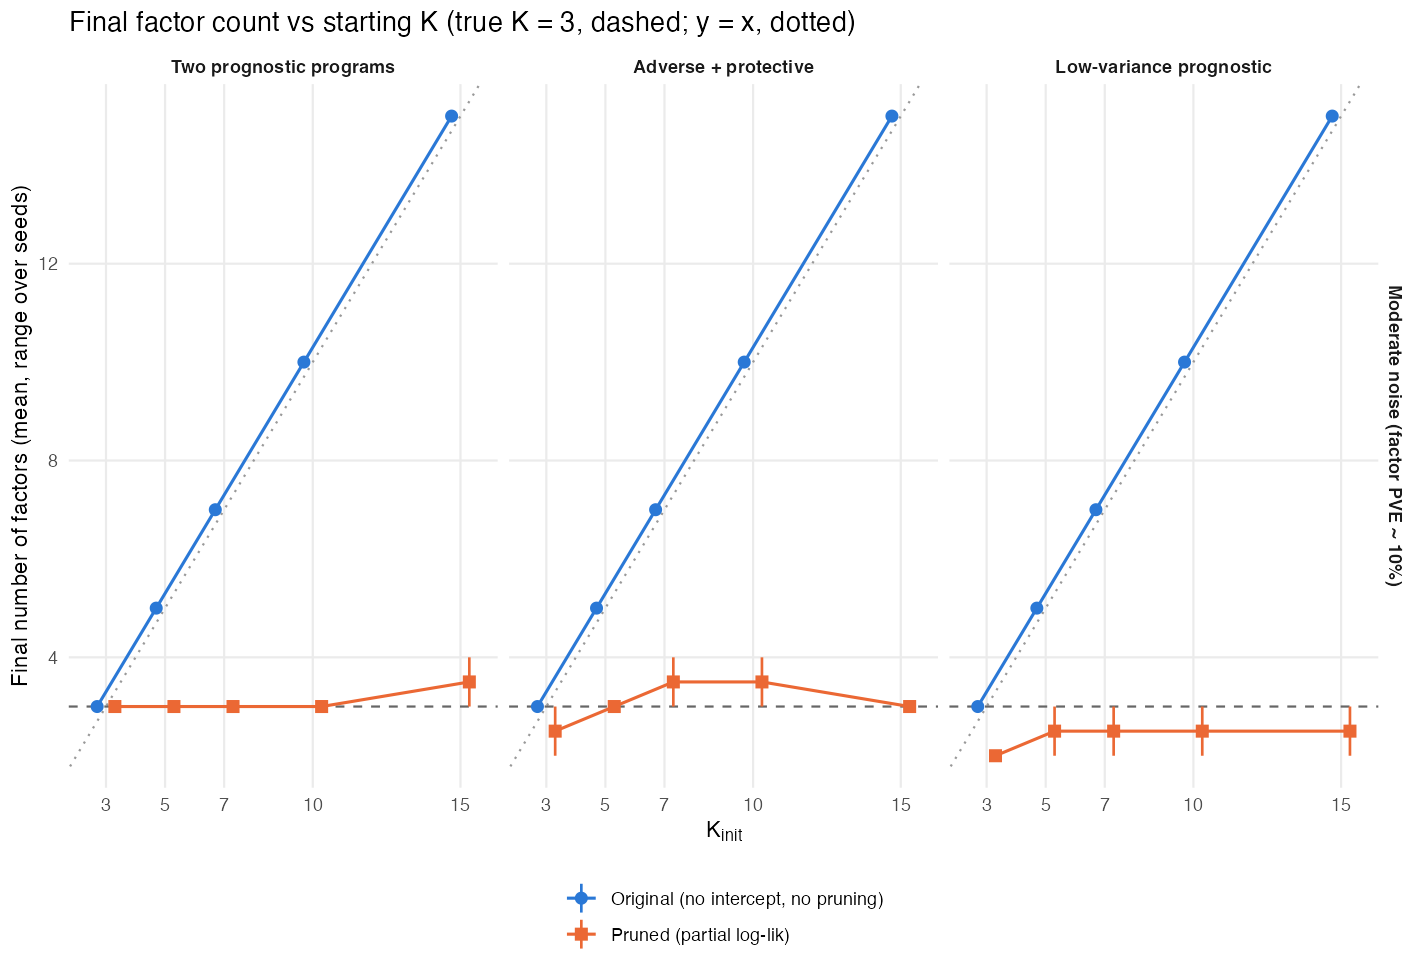
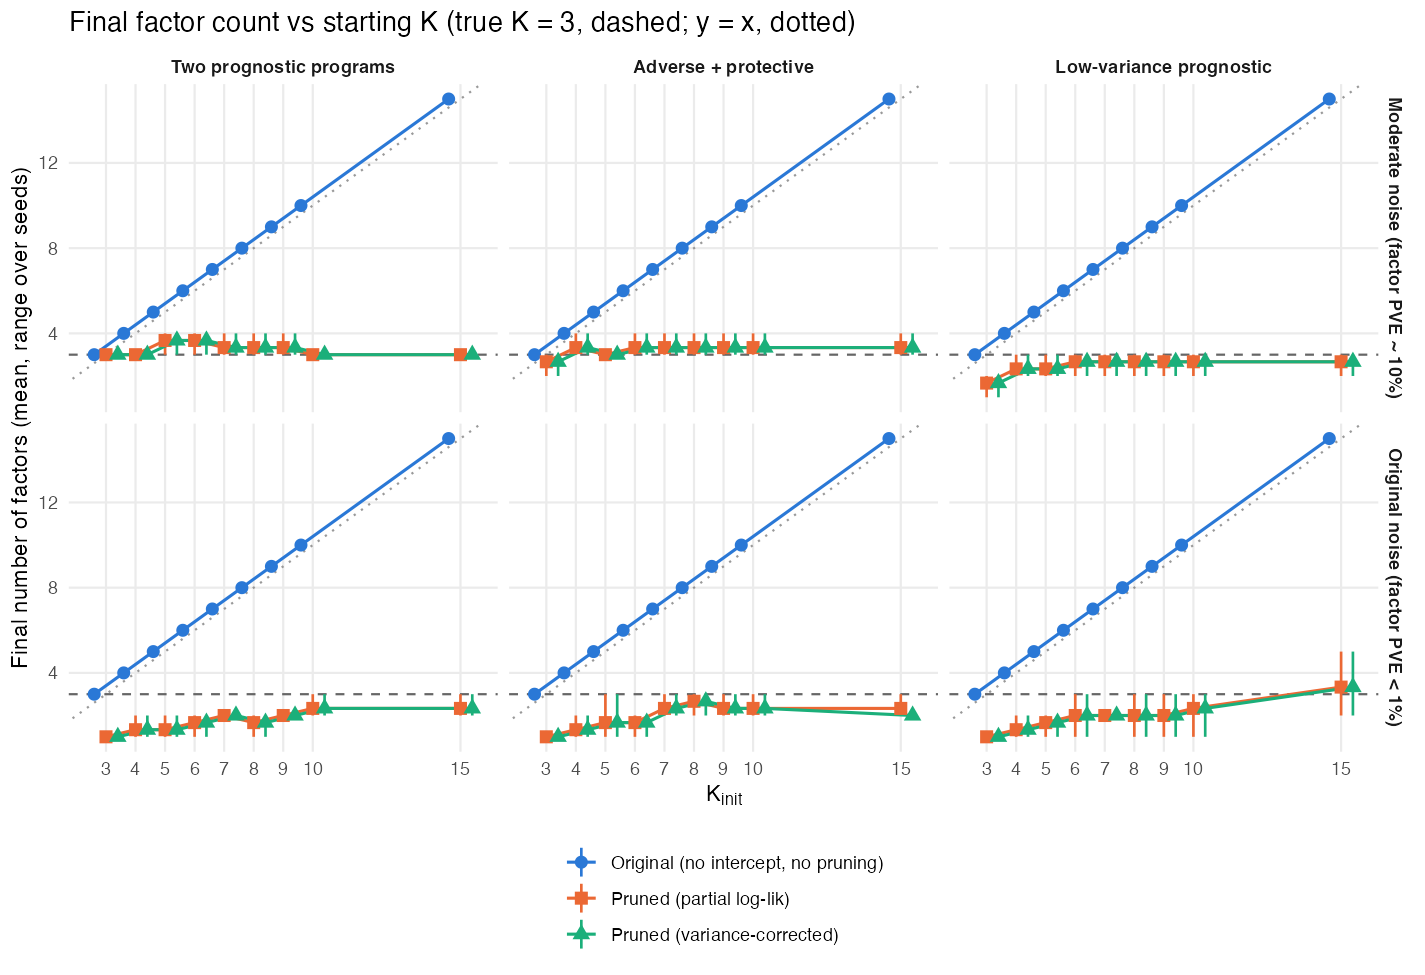
Re-render progress book with full sweep

diff --git a/docs/progress_book/_book/chapters/2026-10-02.html b/docs/progress_book/_book/chapters/2026-10-02.html
@@ -223,7 +223,7 @@ window.Quarto = {
   <ul class="collapse">
   <li><a href="#why-spare-factors-survived" id="toc-why-spare-factors-survived" class="nav-link" data-scroll-target="#why-spare-factors-survived"><span class="header-section-number">10.2.1</span> Why spare factors survived</a></li>
   <li><a href="#the-parsimony-framework" id="toc-the-parsimony-framework" class="nav-link" data-scroll-target="#the-parsimony-framework"><span class="header-section-number">10.2.2</span> The parsimony framework</a></li>
-  <li><a href="#simulation-sweep-preliminary-2-seeds" id="toc-simulation-sweep-preliminary-2-seeds" class="nav-link" data-scroll-target="#simulation-sweep-preliminary-2-seeds"><span class="header-section-number">10.2.3</span> Simulation sweep (preliminary: 2 seeds)</a></li>
+  <li><a href="#simulation-sweep" id="toc-simulation-sweep" class="nav-link" data-scroll-target="#simulation-sweep"><span class="header-section-number">10.2.3</span> Simulation sweep</a></li>
   </ul></li>
   <li><a href="#real-data-matched-tcga-and-icgc-expression-methylation" id="toc-real-data-matched-tcga-and-icgc-expression-methylation" class="nav-link" data-scroll-target="#real-data-matched-tcga-and-icgc-expression-methylation"><span class="header-section-number">10.3</span> §3 — Real data: matched TCGA and ICGC expression + methylation</a></li>
   <li><a href="#first-real-data-fits-tcga-icgc" id="toc-first-real-data-fits-tcga-icgc" class="nav-link" data-scroll-target="#first-real-data-fits-tcga-icgc"><span class="header-section-number">10.4</span> §4 — First real-data fits: TCGA → ICGC</a>
@@ -278,11 +278,12 @@ window.Quarto = {
 </div>
 <p><strong>Progress since 9/18</strong></p>
 <ol type="1">
-<li><strong>Choosing K works in simulation.</strong>
+<li><strong>Choosing K works in simulation.</strong> Full sweep: 486 fits; 3 scenarios × 2 noise levels × K_init = 3–15 × 3 seeds.
 <ul>
 <li>Spare factors survived for two reasons: unbounded per-feature precisions and a missing intercept.</li>
-<li>With the fix, the final number of factors stays near the true K = 3 for every starting value from 3 to 15 in the two scenarios where each program carries variance. The original fit kept every starting factor.</li>
-<li>The prognostic programs are found survival-active with the correct sign in 75–100% of runs. (§2)</li>
+<li>With the fix, the final number of factors stays at 3.0–3.7 for every K_init ≥ 4 at moderate noise. The original fit kept every starting factor.</li>
+<li>The pruned fit recovers essentially all true factors, converges in every run (against 7–37%), and has slightly higher held-out C.</li>
+<li>At high noise its held-out C is far better: 0.79–0.81 against about 0.70. (§2)</li>
 </ul></li>
 <li><strong>First real-data results.</strong> Trained on TCGA (144 patients); validated on ICGC primary PDAC (50 donors, 30 deaths).
 <ul>
@@ -290,7 +291,7 @@ window.Quarto = {
 <li>Our recommended single-modality model scores 0.685 on the same donors. It was trained on TCGA + CPTAC.</li>
 <li>Weaker comparators reach 0.42–0.53.</li>
 <li><strong>Methylation adds +0.01, within the noise.</strong></li>
-<li><strong>The result depends on the starting rank.</strong> Across K_init = 3, 4, 5, 7 and 10, C is 0.557, 0.574, 0.500, 0.685 and 0.650. At K_init = 5 no factor is survival-active. (§4)</li>
+<li><strong>The result depends on the starting rank.</strong> Across K_init = 3, 4, 5, 7, 10 and 15, C is 0.557, 0.574, 0.500, 0.685, 0.650 and 0.547. At K_init = 5 no factor is survival-active; at 15, eleven are, and C falls. (§4)</li>
 </ul></li>
 <li><strong>The selected programs are recognizable PDAC biology.</strong>
 <ul>
@@ -308,7 +309,7 @@ window.Quarto = {
 <p><strong>Open problems and discussion points</strong></p>
 <ul>
 <li><strong>Survival barely influences which factors are kept.</strong> On real data it changes the evidence for any factor by less than 3 nats, against 10⁴–10⁵ for reconstruction. This may also be why a low-variance prognostic program is missed in simulation. It is the multimodal form of the single-modality α_F question. How should survival be made to affect factor retention? (§4, §7)</li>
-<li><strong>Pruning removed no factors on real data</strong> at any starting rank tried (3, 4, 5, 7, 10), so the starting rank fixes the final rank and the result varies with it. The evidence supports many molecular factors. Choosing the rank on real data is the most important open problem. (§4)</li>
+<li><strong>Pruning removed no factors on real data</strong> at any starting rank tried (3–15), so the starting rank fixes the final rank and the result varies with it. The evidence supports many molecular factors. Choosing the rank on real data is the most important open problem. (§4)</li>
 <li><strong>What methylation contributes.</strong> Most factors use one modality. Should CpGs be screened relative to genes, for example promoter CpGs of the selected genes, instead of the 10k most variable? (§3, §4)</li>
 </ul>
 <p>Terms used below:</p>
@@ -425,91 +426,206 @@ Y_m = \mathbf 1\mu_m^\top + L F_m^\top + E_m,\qquad E_{mij}\sim N(0,\tau_{mj}^{-
 <li>An empirical-Bayes Gamma prior on <span class="math inline">\(\tau\)</span> learns a heavy tail, so <span class="math inline">\(\tau\)</span> still reached about <span class="math inline">\(10^{17}\)</span>.</li>
 </ul>
 </section>
-<section id="simulation-sweep-preliminary-2-seeds" class="level3" data-number="10.2.3">
-<h3 data-number="10.2.3" class="anchored" data-anchor-id="simulation-sweep-preliminary-2-seeds"><span class="header-section-number">10.2.3</span> Simulation sweep (preliminary: 2 seeds)</h3>
+<section id="simulation-sweep" class="level3" data-number="10.2.3">
+<h3 data-number="10.2.3" class="anchored" data-anchor-id="simulation-sweep"><span class="header-section-number">10.2.3</span> Simulation sweep</h3>
 <p><strong>Design.</strong></p>
 <ul>
-<li>Data: true <span class="math inline">\(K=3\)</span>, <span class="math inline">\(n=120\)</span>, 50 + 50 features, moderate noise (each true factor explains about 10% of variance).</li>
-<li>Starting ranks: <span class="math inline">\(K_{\mathrm{init}}=3,5,7,10,15\)</span>.</li>
-<li>Scenarios: three. Seeds: two per setting.</li>
-<li>Fits: 60, original vs pruned, on identical data. No fit errored.</li>
-<li>The full sweep (both noise levels, <span class="math inline">\(K_{\mathrm{init}}=3,\dots,10,15\)</span>, three seeds) is still running.</li>
+<li>Data: true <span class="math inline">\(K=3\)</span>, <span class="math inline">\(n=120\)</span>, 50 + 50 features.</li>
+<li>Starting ranks: <span class="math inline">\(K_{\mathrm{init}}=3,\dots,10,15\)</span>.</li>
+<li>Scenarios: three. Noise levels: two.
+<ul>
+<li>Moderate: each true factor explains about 10% of variance.</li>
+<li>The original September design: each true factor explains under 1%.</li>
+</ul></li>
+<li>Seeds: three per setting.</li>
+<li>Variants: the original fit, the pruned fit, and the pruned fit with a variance-corrected survival term. All three are fit to identical data.</li>
+<li>Fits: 486, with no errors.</li>
 </ul>
 <div class="quarto-figure quarto-figure-center">
 <figure class="figure">
 <p><img src="../figs/2026-10-02_pruning_K_final.png" class="img-fluid figure-img"></p>
-<figcaption>Final number of factors against <span class="math inline">\(K_{\mathrm{init}}\)</span> (true <span class="math inline">\(K=3\)</span>, dashed; <span class="math inline">\(y=x\)</span>, dotted). The original fit keeps every starting factor; the pruned fit returns about 3 factors when the programs carry variance.</figcaption>
+<figcaption>Final number of factors against <span class="math inline">\(K_{\mathrm{init}}\)</span> (true <span class="math inline">\(K=3\)</span>, dashed; <span class="math inline">\(y=x\)</span>, dotted), mean and range over 3 seeds. The original fit keeps every starting factor; the pruned fits stay near 3 at moderate noise and below 3 when the true factors explain under 1% of variance.</figcaption>
 </figure>
 </div>
+<p><strong>Moderate noise</strong> (means over <span class="math inline">\(K_{\mathrm{init}}=3,\dots,10,15\)</span> and seeds):</p>
 <table class="caption-top table">
 <colgroup>
-<col style="width: 16%">
-<col style="width: 16%">
-<col style="width: 16%">
-<col style="width: 16%">
-<col style="width: 16%">
-<col style="width: 16%">
+<col style="width: 12%">
+<col style="width: 12%">
+<col style="width: 12%">
+<col style="width: 12%">
+<col style="width: 12%">
+<col style="width: 12%">
+<col style="width: 12%">
+<col style="width: 12%">
 </colgroup>
 <thead>
 <tr class="header">
 <th>Scenario</th>
-<th>Final <span class="math inline">\(K\)</span>, original (<span class="math inline">\(K_{\mathrm{init}}\)</span> = 3 / 5 / 7 / 10 / 15)</th>
-<th>Final <span class="math inline">\(K\)</span>, pruned</th>
-<th>True factors recovered, pruned</th>
-<th>Prognostic programs survival-active, pruned</th>
-<th>Held-out C, pruned</th>
+<th>Variant</th>
+<th>Final <span class="math inline">\(K\)</span> (<span class="math inline">\(K_{\mathrm{init}}\ge4\)</span>)</th>
+<th>True factors recovered (of 3)</th>
+<th>Prognostic recall</th>
+<th>False survival-active</th>
+<th>Held-out C</th>
+<th>Converged</th>
 </tr>
 </thead>
 <tbody>
 <tr class="odd">
 <td>Two prognostic programs</td>
-<td>3 / 5 / 7 / 10 / 15</td>
-<td>3 / 3 / 3 / 3 / 3.5</td>
-<td>3 of 3 at every <span class="math inline">\(K_{\mathrm{init}}\)</span></td>
-<td>100% (75% at 15)</td>
-<td>0.785–0.788</td>
+<td>original</td>
+<td>= <span class="math inline">\(K_{\mathrm{init}}\)</span></td>
+<td>2.74</td>
+<td>0.93</td>
+<td>0.82</td>
+<td>0.781</td>
+<td>7%</td>
 </tr>
 <tr class="even">
+<td></td>
+<td><strong>pruned</strong></td>
+<td><strong>3.0–3.7</strong></td>
+<td><strong>3.00</strong></td>
+<td>0.87</td>
+<td><strong>0.67</strong></td>
+<td><strong>0.798</strong></td>
+<td><strong>100%</strong></td>
+</tr>
+<tr class="odd">
 <td>Adverse + protective</td>
-<td>3 / 5 / 7 / 10 / 15</td>
-<td>2.5 / 3 / 3.5 / 3.5 / 3</td>
-<td>3 of 3 from <span class="math inline">\(K_{\mathrm{init}}\ge5\)</span> (2.5 at 3)</td>
-<td>75–100%</td>
-<td>0.766–0.795</td>
+<td>original</td>
+<td>= <span class="math inline">\(K_{\mathrm{init}}\)</span></td>
+<td>2.78</td>
+<td>0.89</td>
+<td>0.70</td>
+<td>0.786</td>
+<td>37%</td>
+</tr>
+<tr class="even">
+<td></td>
+<td><strong>pruned</strong></td>
+<td><strong>3.0–3.3</strong></td>
+<td><strong>2.96</strong></td>
+<td>0.87</td>
+<td><strong>0.59</strong></td>
+<td><strong>0.794</strong></td>
+<td><strong>100%</strong></td>
 </tr>
 <tr class="odd">
 <td>Low-variance prognostic</td>
-<td>3 / 5 / 7 / 10 / 15</td>
-<td>2 / 2.5 / 2.5 / 2.5 / 2.5</td>
-<td>2 of 3 (1.5 at <span class="math inline">\(K_{\mathrm{init}}=3\)</span>); the low-variance program is missed</td>
-<td>0%</td>
-<td>0.50–0.73 across seeds</td>
+<td>original</td>
+<td>= <span class="math inline">\(K_{\mathrm{init}}\)</span></td>
+<td>2.00</td>
+<td>0</td>
+<td>2.22</td>
+<td>0.625</td>
+<td>19%</td>
+</tr>
+<tr class="even">
+<td></td>
+<td><strong>pruned</strong></td>
+<td>2.3–2.7</td>
+<td>1.96</td>
+<td>0</td>
+<td>1.26</td>
+<td>0.625</td>
+<td><strong>100%</strong></td>
+</tr>
+</tbody>
+</table>
+<p><strong>Original noise</strong> (true factors under 1% of variance):</p>
+<table class="caption-top table">
+<colgroup>
+<col style="width: 14%">
+<col style="width: 14%">
+<col style="width: 14%">
+<col style="width: 14%">
+<col style="width: 14%">
+<col style="width: 14%">
+<col style="width: 14%">
+</colgroup>
+<thead>
+<tr class="header">
+<th>Scenario</th>
+<th>Variant</th>
+<th>Final <span class="math inline">\(K\)</span></th>
+<th>True factors recovered</th>
+<th>Prognostic recall</th>
+<th>False survival-active</th>
+<th>Held-out C</th>
+</tr>
+</thead>
+<tbody>
+<tr class="odd">
+<td>Two prognostic programs</td>
+<td>original</td>
+<td>= <span class="math inline">\(K_{\mathrm{init}}\)</span></td>
+<td>0.11</td>
+<td>0.06</td>
+<td>2.85</td>
+<td>0.695</td>
+</tr>
+<tr class="even">
+<td></td>
+<td><strong>pruned</strong></td>
+<td>1.0–2.3</td>
+<td><strong>1.19</strong></td>
+<td><strong>0.59</strong></td>
+<td><strong>0.44</strong></td>
+<td><strong>0.789</strong></td>
+</tr>
+<tr class="odd">
+<td>Adverse + protective</td>
+<td>original</td>
+<td>= <span class="math inline">\(K_{\mathrm{init}}\)</span></td>
+<td>0.59</td>
+<td>0.30</td>
+<td>1.41</td>
+<td>0.703</td>
+</tr>
+<tr class="even">
+<td></td>
+<td><strong>pruned</strong></td>
+<td>1.0–2.7</td>
+<td><strong>1.33</strong></td>
+<td><strong>0.67</strong></td>
+<td><strong>0.52</strong></td>
+<td><strong>0.799</strong></td>
+</tr>
+<tr class="odd">
+<td>Low-variance prognostic</td>
+<td>original</td>
+<td>= <span class="math inline">\(K_{\mathrm{init}}\)</span></td>
+<td>0.15</td>
+<td>0</td>
+<td>2.63</td>
+<td>0.693</td>
+</tr>
+<tr class="even">
+<td></td>
+<td><strong>pruned</strong></td>
+<td>1.0–3.3</td>
+<td><strong>0.93</strong></td>
+<td><strong>0.52</strong></td>
+<td><strong>1.15</strong></td>
+<td><strong>0.805</strong></td>
 </tr>
 </tbody>
 </table>
 <p>What the sweep shows:</p>
 <ul>
-<li><strong><span class="math inline">\(K\)</span> no longer follows <span class="math inline">\(K_{\mathrm{init}}\)</span>.</strong>
-<ul>
-<li>With pruning, the final count stays near the truth from <span class="math inline">\(K_{\mathrm{init}}=3\)</span> to 15 when every program carries variance. It is 2–2.5 when the prognostic program is low-variance.</li>
-<li>All 30 pruned fits converged. The original fit converged in 8 of 30, and in none of the two-prognostic runs.</li>
-</ul></li>
-<li><strong>Variance-carrying prognostic programs are found with the right sign</strong> in 75–100% of runs.
-<ul>
-<li>Both programs are flagged in 50–100% of runs at each <span class="math inline">\(K_{\mathrm{init}}\)</span>.</li>
-<li>Pruned fits still average 0.5–1 <em>false</em> survival-active factors in these scenarios. One example: a non-prognostic true factor flagged in one seed even at the correct <span class="math inline">\(K=3\)</span>. Another: survival-only duplicates of a prognostic program at large <span class="math inline">\(K_{\mathrm{init}}\)</span>.</li>
-</ul></li>
-<li><strong>The low-variance prognostic program is lost by both methods.</strong>
-<ul>
-<li>In one seed (C = 0.73) its survival signal was credited to two wrong factors.</li>
-<li>In the other (C = 0.50) no factor was survival-active and the program was not recovered (<span class="math inline">\(\lvert r\rvert=0.06\)</span>).</li>
-</ul></li>
-<li><strong>At <span class="math inline">\(K_{\mathrm{init}}=3\)</span></strong> a true factor is sometimes pruned.</li>
+<li><strong><span class="math inline">\(K\)</span> no longer follows <span class="math inline">\(K_{\mathrm{init}}\)</span>.</strong> At moderate noise the pruned fit returns 3.0–3.7 factors for every <span class="math inline">\(K_{\mathrm{init}}\ge4\)</span> when every program carries variance. With a low-variance program it returns 2.3–2.7. With true factors under 1% of variance it returns fewer than 3. This is the honest answer when factors can barely be distinguished from noise.</li>
+<li><strong>Better recovery and prediction where the original fit struggles.</strong> At moderate noise the pruned fit recovers essentially all true factors. Its held-out C is slightly higher, its false survival-active factors are fewer, and it converges in every run, against 7–37% for the original. Prognostic recall is similar, 0.87 against 0.89–0.93. At high noise the gains are large: held-out C 0.79–0.81 against about 0.70, and prognostic recall 0.52–0.67 against 0–0.30.</li>
+<li><strong>The low-variance prognostic program is still missed at moderate noise by both methods.</strong> It is recovered in about half the fits at high noise. Why this differs by noise level is not yet understood.</li>
+<li><strong>The variance-corrected survival term made no difference</strong> to any summary, so the plug-in partial log-likelihood is kept.</li>
+<li><strong>False survival-active factors remain</strong> at 0.4–0.7 per fit in the informative scenarios.</li>
+<li><strong>Runtime.</strong> Pruned fits were also faster: median 59 s against 119 s, because they converge.</li>
 </ul>
 <div class="quarto-figure quarto-figure-center">
 <figure class="figure">
 <p><img src="../figs/2026-10-02_pruning_recovery.png" class="img-fluid figure-img"></p>
-<figcaption>Recovery at moderate noise, mean over 2 seeds per setting: false survival-active factors, the share of prognostic programs found survival-active, and true factors recovered.</figcaption>
+<figcaption>Recovery by <span class="math inline">\(K_{\mathrm{init}}\)</span> at moderate noise (mean over 3 seeds): false survival-active factors, the share of prognostic programs found survival-active, and true factors recovered.</figcaption>
 </figure>
 </div>
 </section>
@@ -721,12 +837,13 @@ Y_m = \mathbf 1\mu_m^\top + L F_m^\top + E_m,\qquad E_{mij}\sim N(0,\tau_{mj}^{-
 </ul>
 <table class="caption-top table">
 <colgroup>
-<col style="width: 16%">
-<col style="width: 16%">
-<col style="width: 16%">
-<col style="width: 16%">
-<col style="width: 16%">
-<col style="width: 16%">
+<col style="width: 14%">
+<col style="width: 14%">
+<col style="width: 14%">
+<col style="width: 14%">
+<col style="width: 14%">
+<col style="width: 14%">
+<col style="width: 14%">
 </colgroup>
 <thead>
 <tr class="header">
@@ -736,6 +853,7 @@ Y_m = \mathbf 1\mu_m^\top + L F_m^\top + E_m,\qquad E_{mij}\sim N(0,\tau_{mj}^{-
 <th>5</th>
 <th>7</th>
 <th>10</th>
+<th>15</th>
 </tr>
 </thead>
 <tbody>
@@ -746,6 +864,7 @@ Y_m = \mathbf 1\mu_m^\top + L F_m^\top + E_m,\qquad E_{mij}\sim N(0,\tau_{mj}^{-
 <td>5</td>
 <td>7</td>
 <td>10</td>
+<td>15</td>
 </tr>
 <tr class="even">
 <td>Survival-active</td>
@@ -754,11 +873,13 @@ Y_m = \mathbf 1\mu_m^\top + L F_m^\top + E_m,\qquad E_{mij}\sim N(0,\tau_{mj}^{-
 <td><strong>0</strong></td>
 <td>1</td>
 <td>3</td>
+<td><strong>11</strong></td>
 </tr>
 <tr class="odd">
 <td>Converged within 500 sweeps</td>
 <td>yes (398)</td>
 <td>yes (465)</td>
+<td>no</td>
 <td>no</td>
 <td>no</td>
 <td>no</td>
@@ -770,16 +891,17 @@ Y_m = \mathbf 1\mu_m^\top + L F_m^\top + E_m,\qquad E_{mij}\sim N(0,\tau_{mj}^{-
 <td><strong>0.500</strong> (constant risk)</td>
 <td>0.685 (0.579–0.779)</td>
 <td>0.650 (0.529–0.763)</td>
+<td>0.547 (0.408–0.676)</td>
 </tr>
 </tbody>
 </table>
 <p><strong>The real-data result depends strongly on the starting rank.</strong></p>
 <ul>
 <li>At <span class="math inline">\(K_{\mathrm{init}}=5\)</span> no factor is survival-active. Every <span class="math inline">\(\beta_k\)</span> is shrunk to exactly zero, so the risk score is constant and C = 0.5.</li>
-<li>At <span class="math inline">\(K_{\mathrm{init}}=7\)</span>, which was chosen in advance to match the single-modality model, the only survival-active factor is the basal-like one.</li>
+<li>At <span class="math inline">\(K_{\mathrm{init}}=7\)</span>, chosen in advance to match the single-modality model, the only survival-active factor is the basal-like one.</li>
 <li>At <span class="math inline">\(K_{\mathrm{init}}=10\)</span> there are three survival-active factors, including one matching Program 3 (<span class="math inline">\(\lvert r\rvert=0.68\)</span>).</li>
-<li>The 0.685 at <span class="math inline">\(K_{\mathrm{init}}=7\)</span> is the best of the starting ranks so far, not a typical value.</li>
-<li>Ranks 6, 8, 9 and 15 are still running.</li>
+<li>At <span class="math inline">\(K_{\mathrm{init}}=15\)</span> eleven of fifteen factors are survival-active and external C falls to 0.547. With many unpruned factors the model finds survival associations that do not hold out of sample.</li>
+<li>The 0.685 at <span class="math inline">\(K_{\mathrm{init}}=7\)</span> is the best of the starting ranks, not a typical value. Ranks 6, 8 and 9 are still running.</li>
 </ul>
 <p>Because pruning removes nothing on real data, the starting rank effectively <em>is</em> the final rank. Unlike in simulation, it is not yet chosen by the model. This is the most important open problem for the real-data application.</p>
 <p><strong>Caveats.</strong></p>
